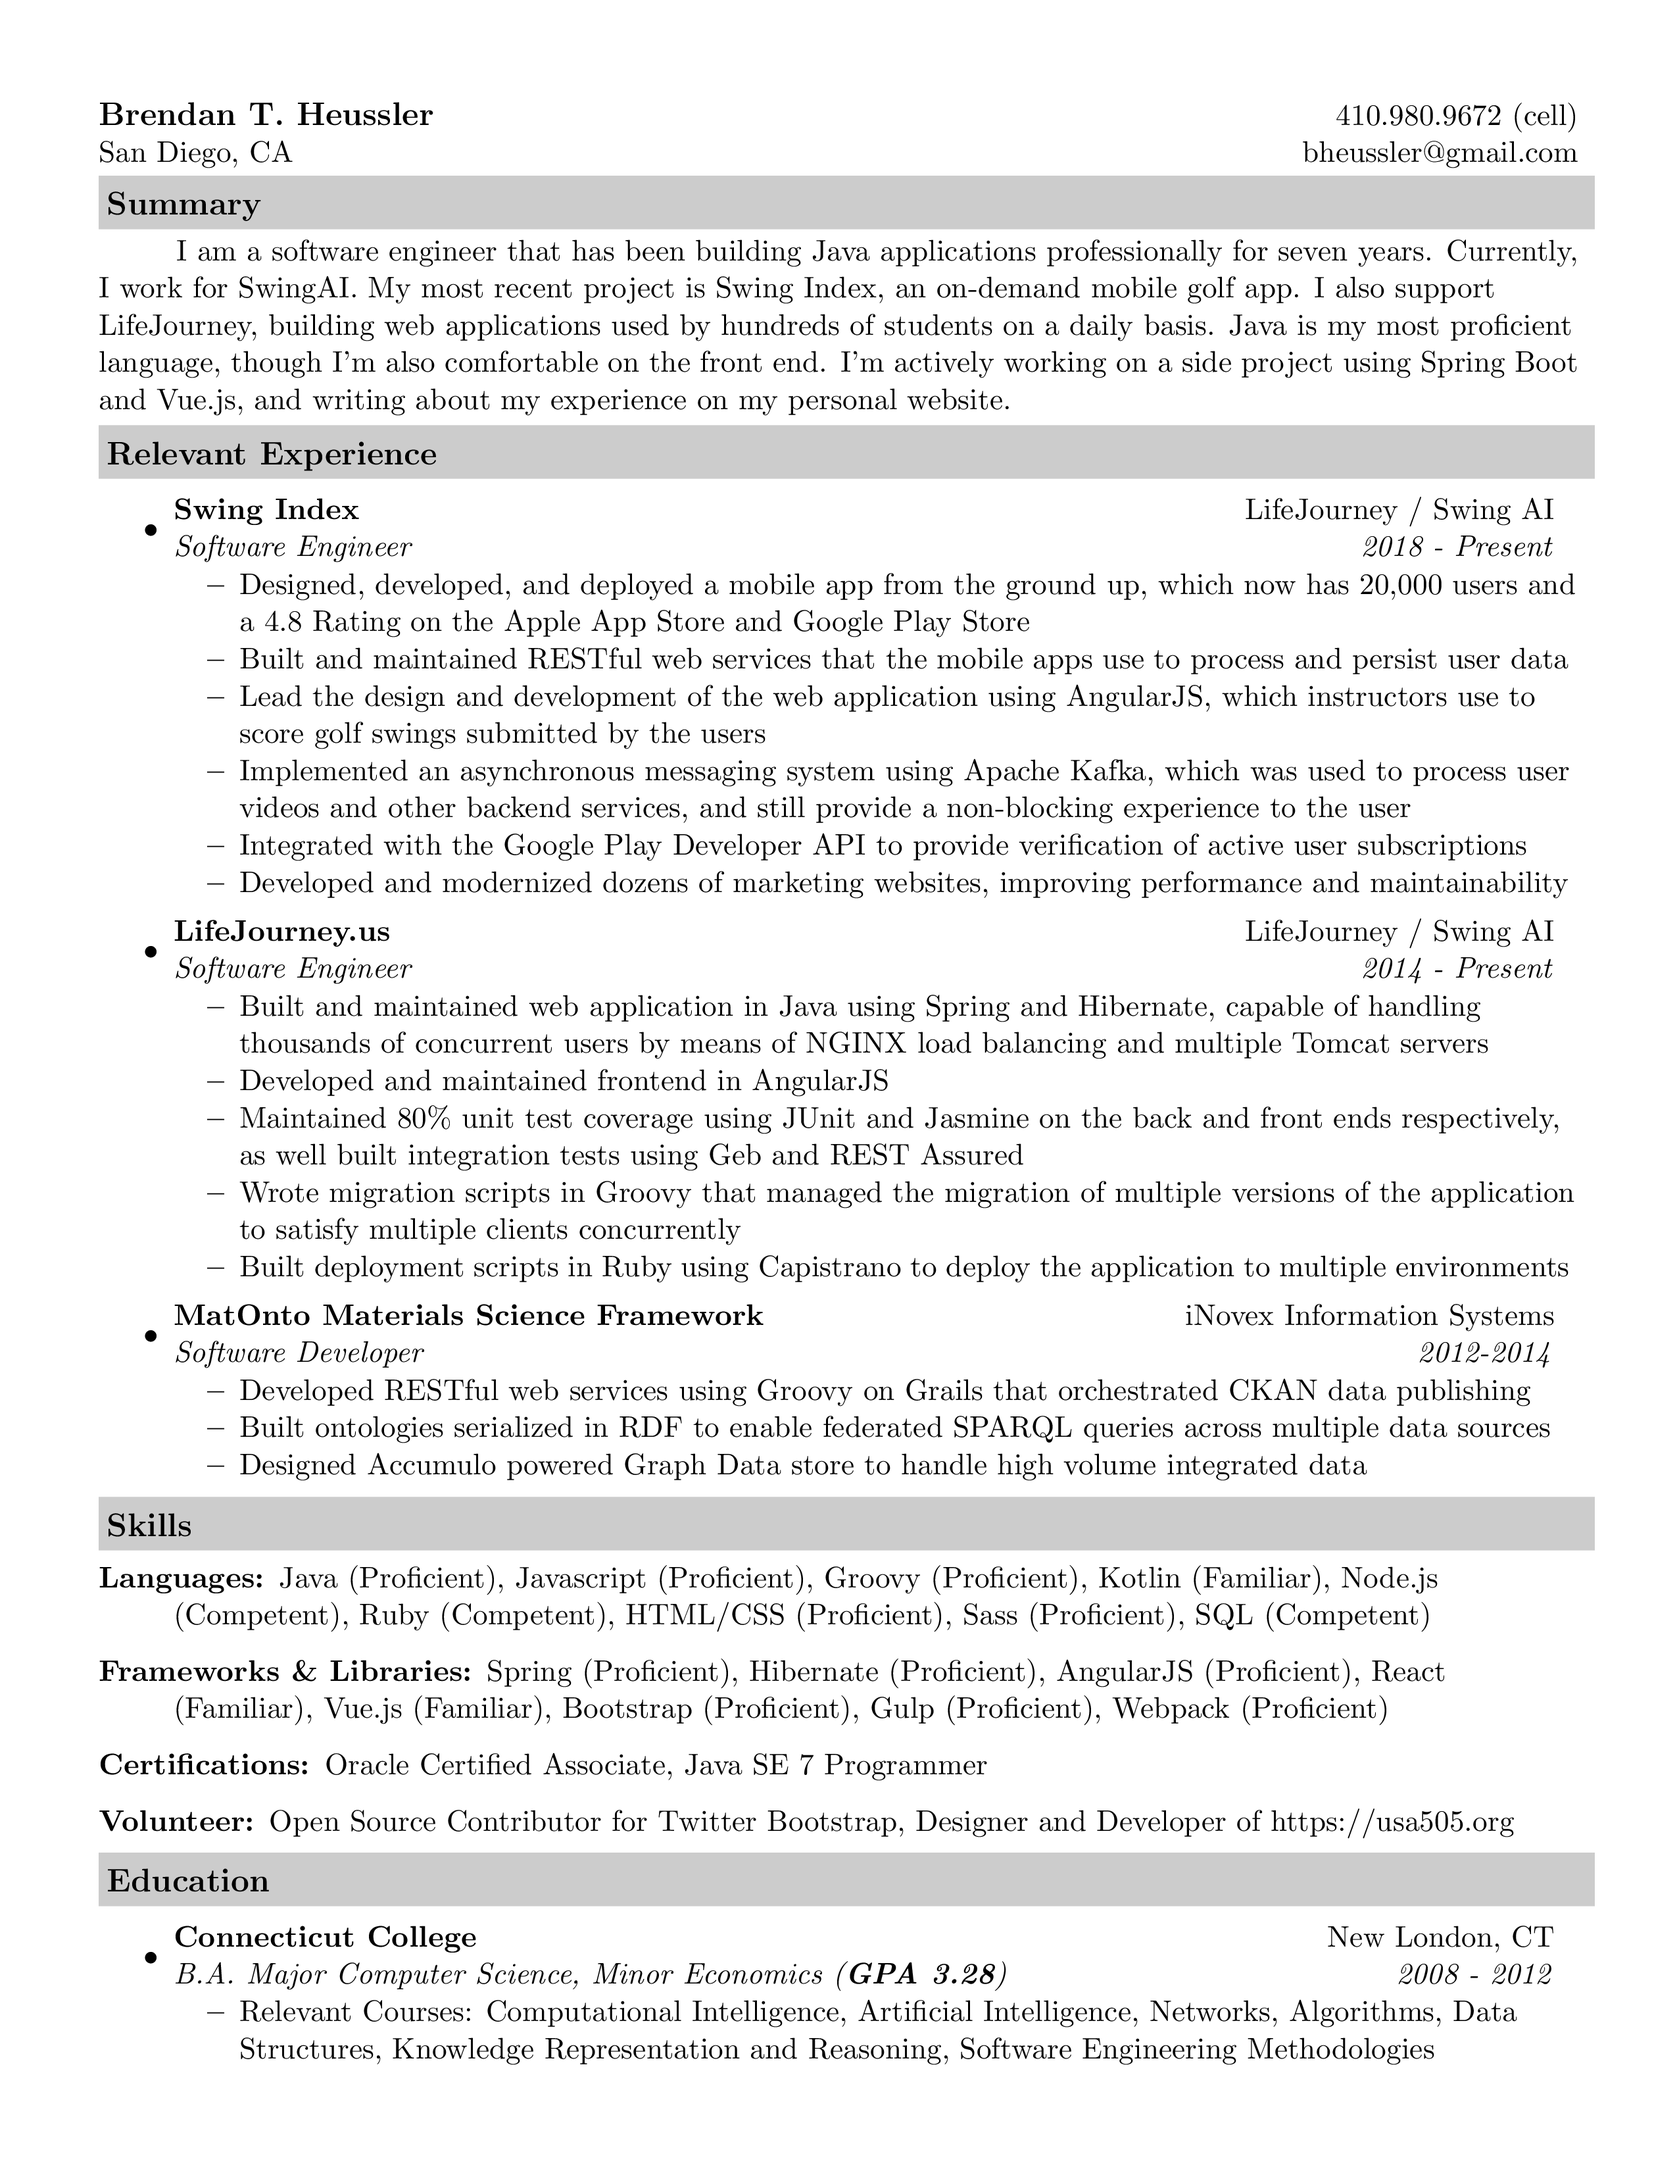
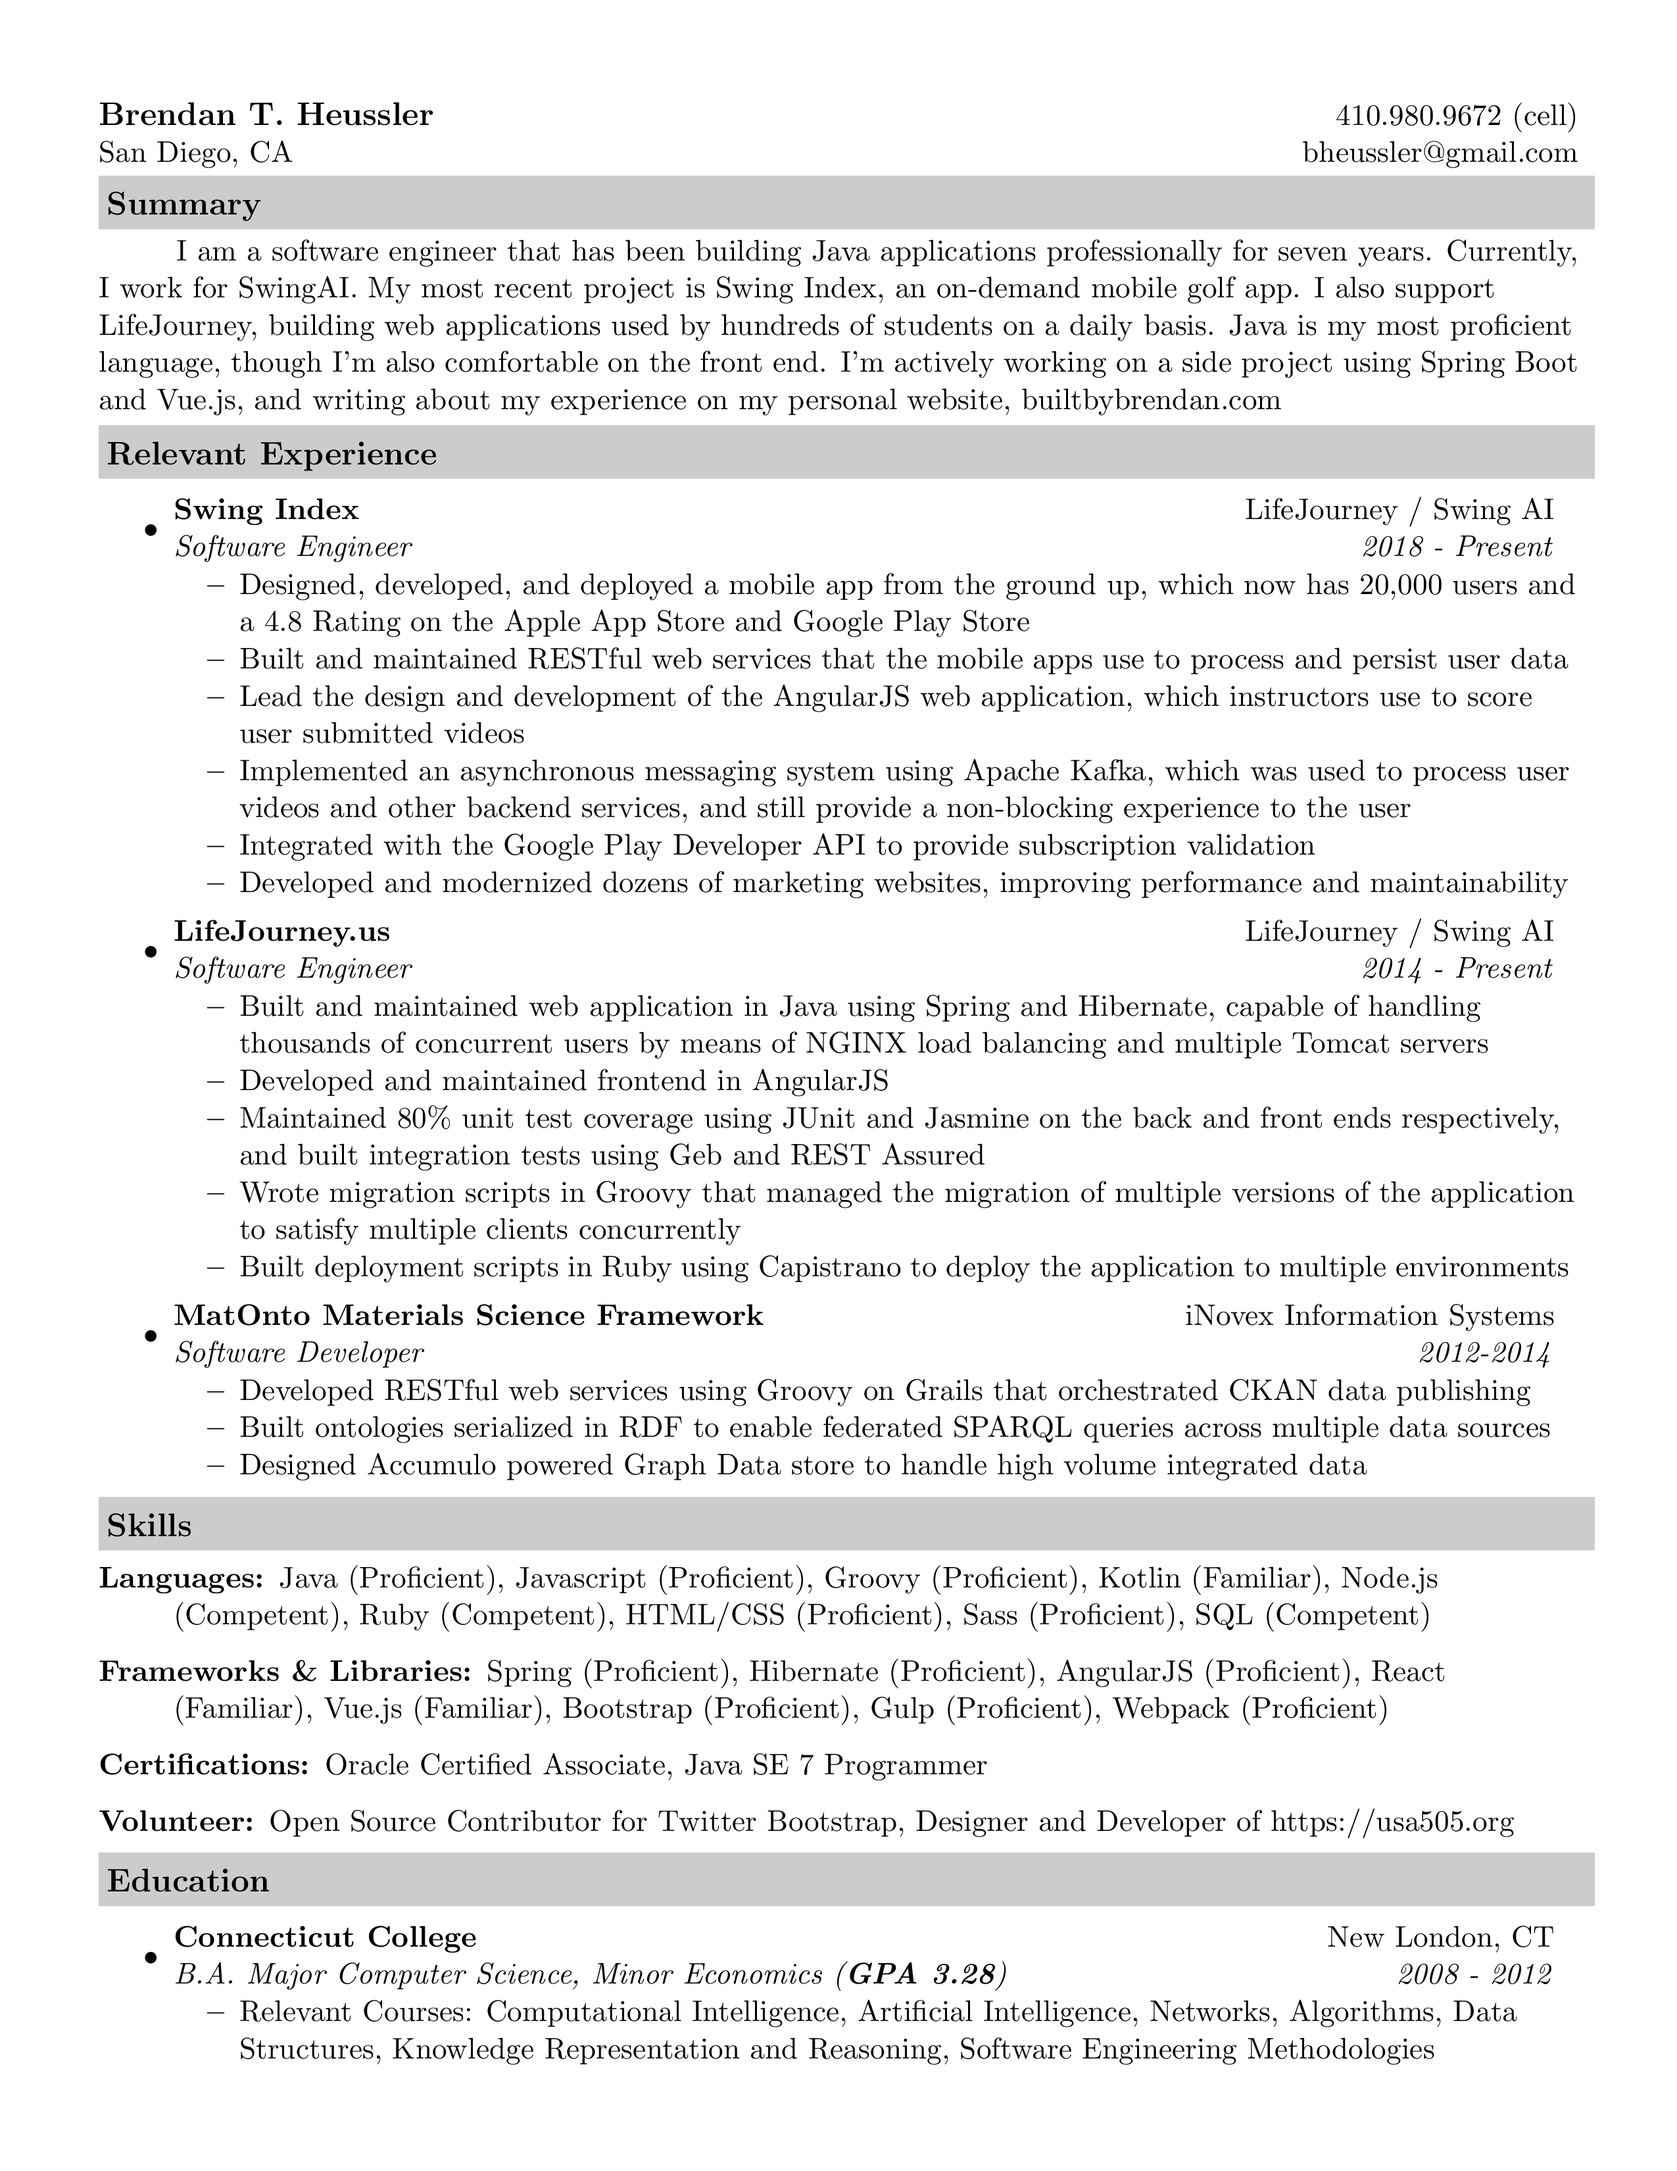
Add the personal website

diff --git a/Brendan_Heussler_Resume.tex b/Brendan_Heussler_Resume.tex
@@ -54,7 +54,7 @@
         Currently, I work for SwingAI. My most recent project is Swing Index, an on-demand mobile golf app.
         I also support LifeJourney, building web applications used by hundreds of students on a daily basis.
         Java is my most proficient language, though I'm also comfortable on the front end.
-        I'm actively working on a side project using Spring Boot and Vue.js, and writing about my experience on my personal website.
+        I'm actively working on a side project using Spring Boot and Vue.js, and writing about my experience on my personal website, builtbybrendan.com
     }
     \vspace{1mm}
 
@@ -63,7 +63,7 @@
         \item
         \ressubheading{Swing Index}{LifeJourney / Swing AI}{Software Engineer}{2018 - Present}
         \begin{itemize}
-            \resitem{Designed, developed, and deployed a mobile app from the ground up, which now has 20,000 users and a 4.8 Rating on the Apple App Store and Google Play Store}
+            \resitem{Designed, developed, and deployed a mobile app from the ground up, which now has 20,000 users and a 4.8 rating on the Apple App Store and Google Play Store}
             \resitem{Built and maintained RESTful web services that the mobile apps use to process and persist user data}
             \resitem{Lead the design and development of the AngularJS web application, which instructors use to score user submitted videos}
             \resitem{Implemented an asynchronous messaging system using Apache Kafka, which was used to process user videos and other backend services, and still provide a non-blocking experience to the user}
